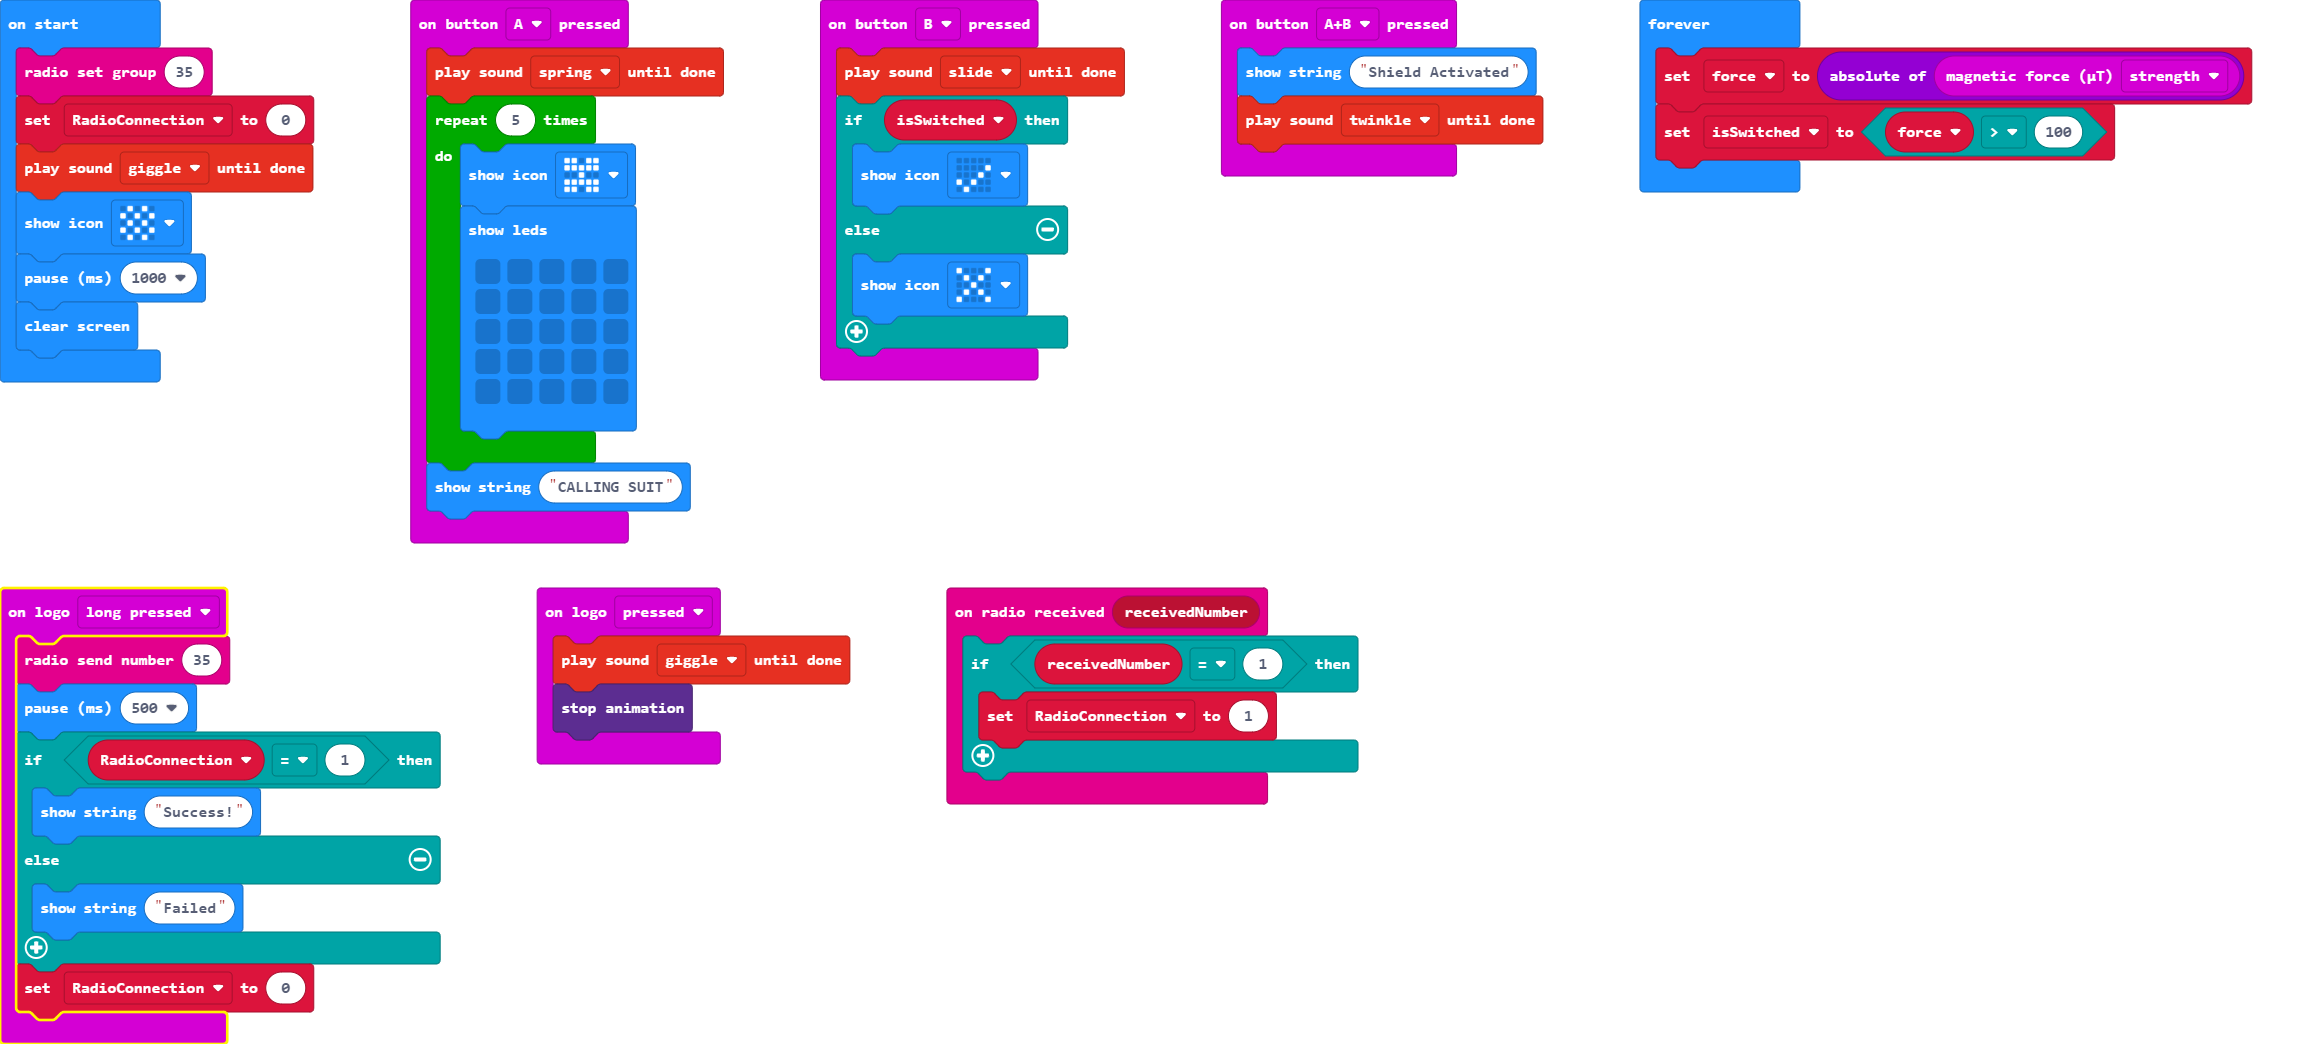
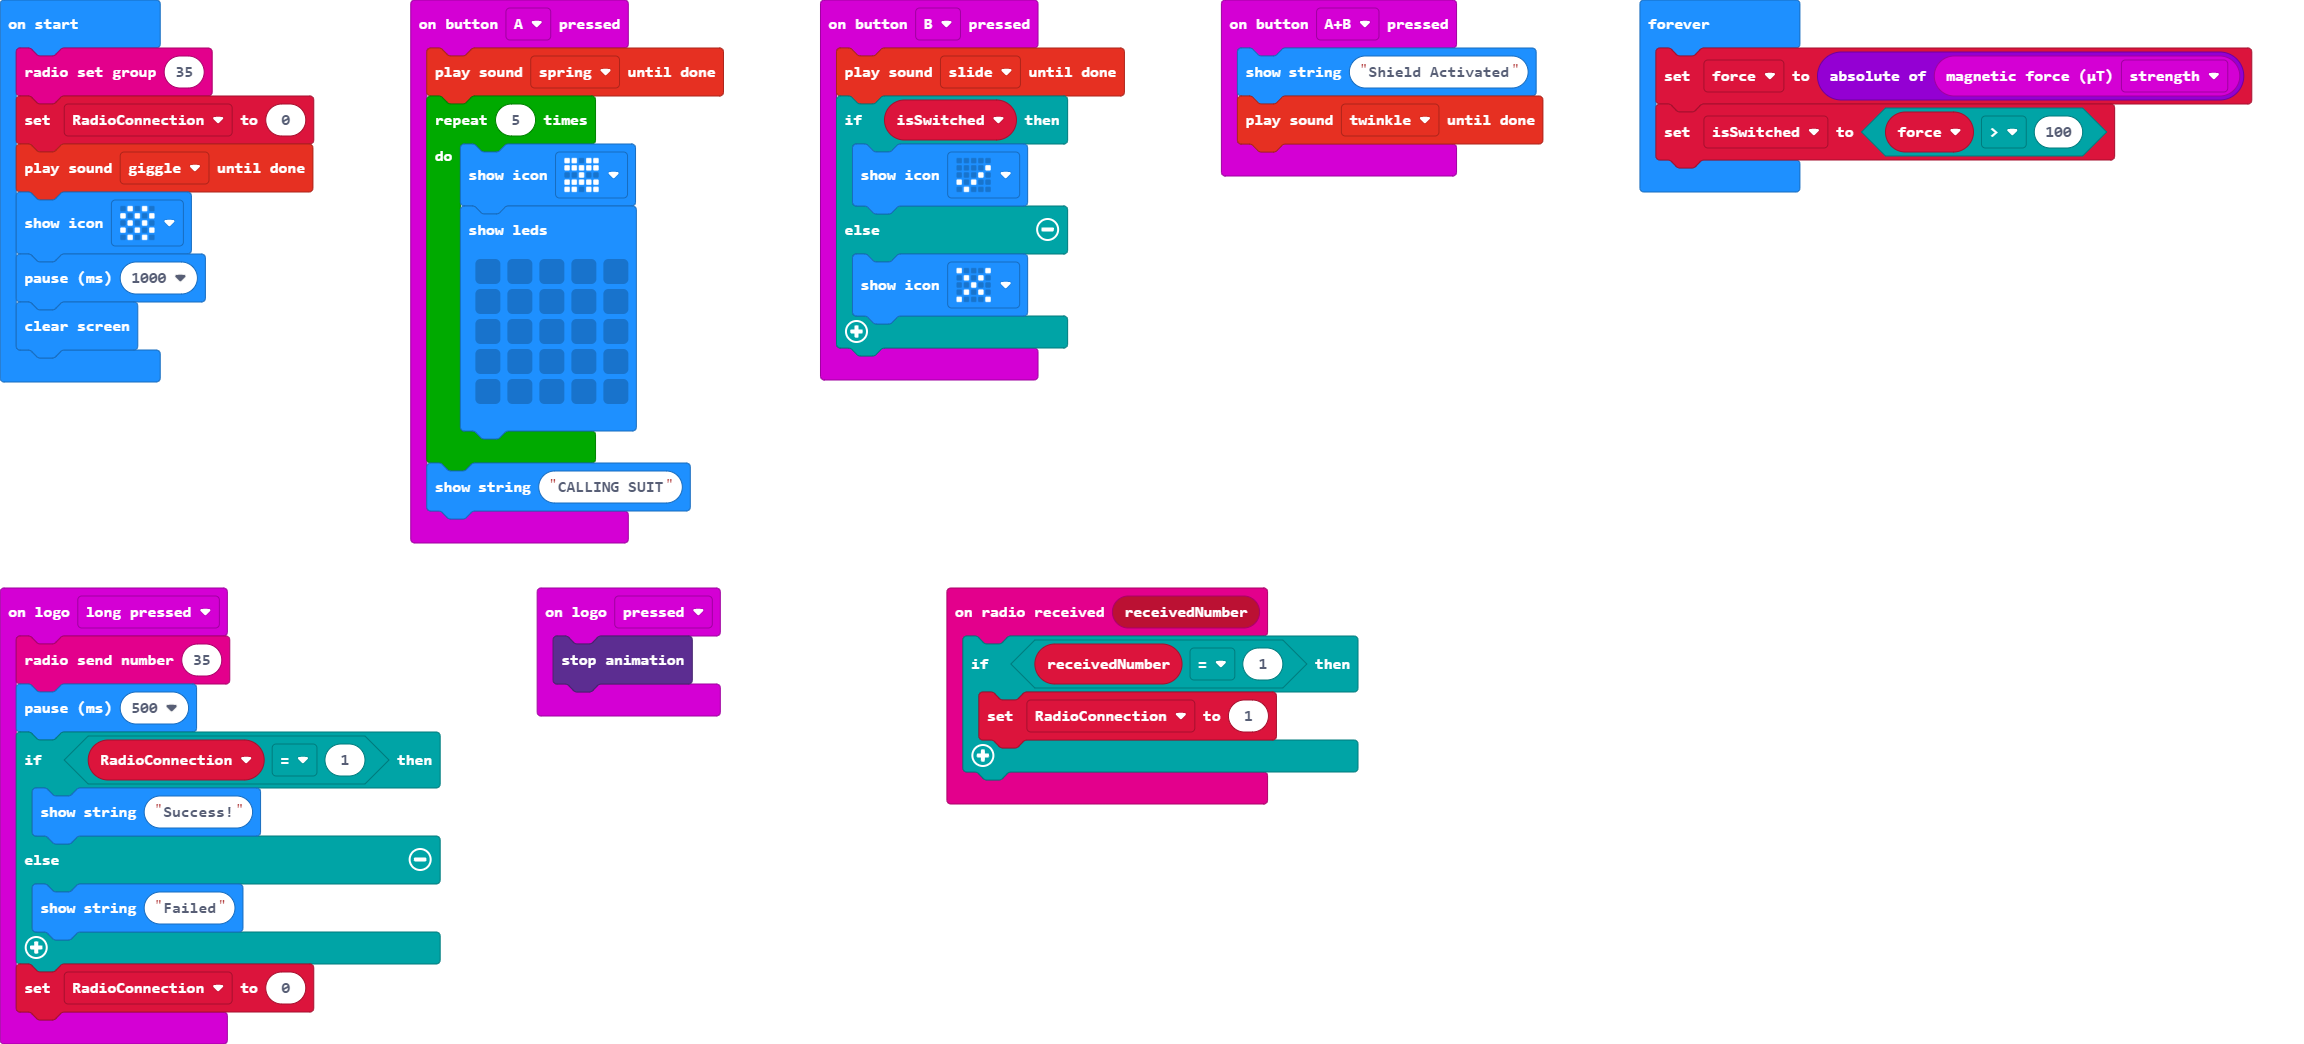
Update main.blocks, main.ts

diff --git a/main.ts b/main.ts
@@ -43,7 +43,6 @@ input.onButtonPressed(Button.B, function () {
     }
 })
 input.onLogoEvent(TouchButtonEvent.Pressed, function () {
-    soundExpression.giggle.playUntilDone()
     led.stopAnimation()
 })
 let force = 0
